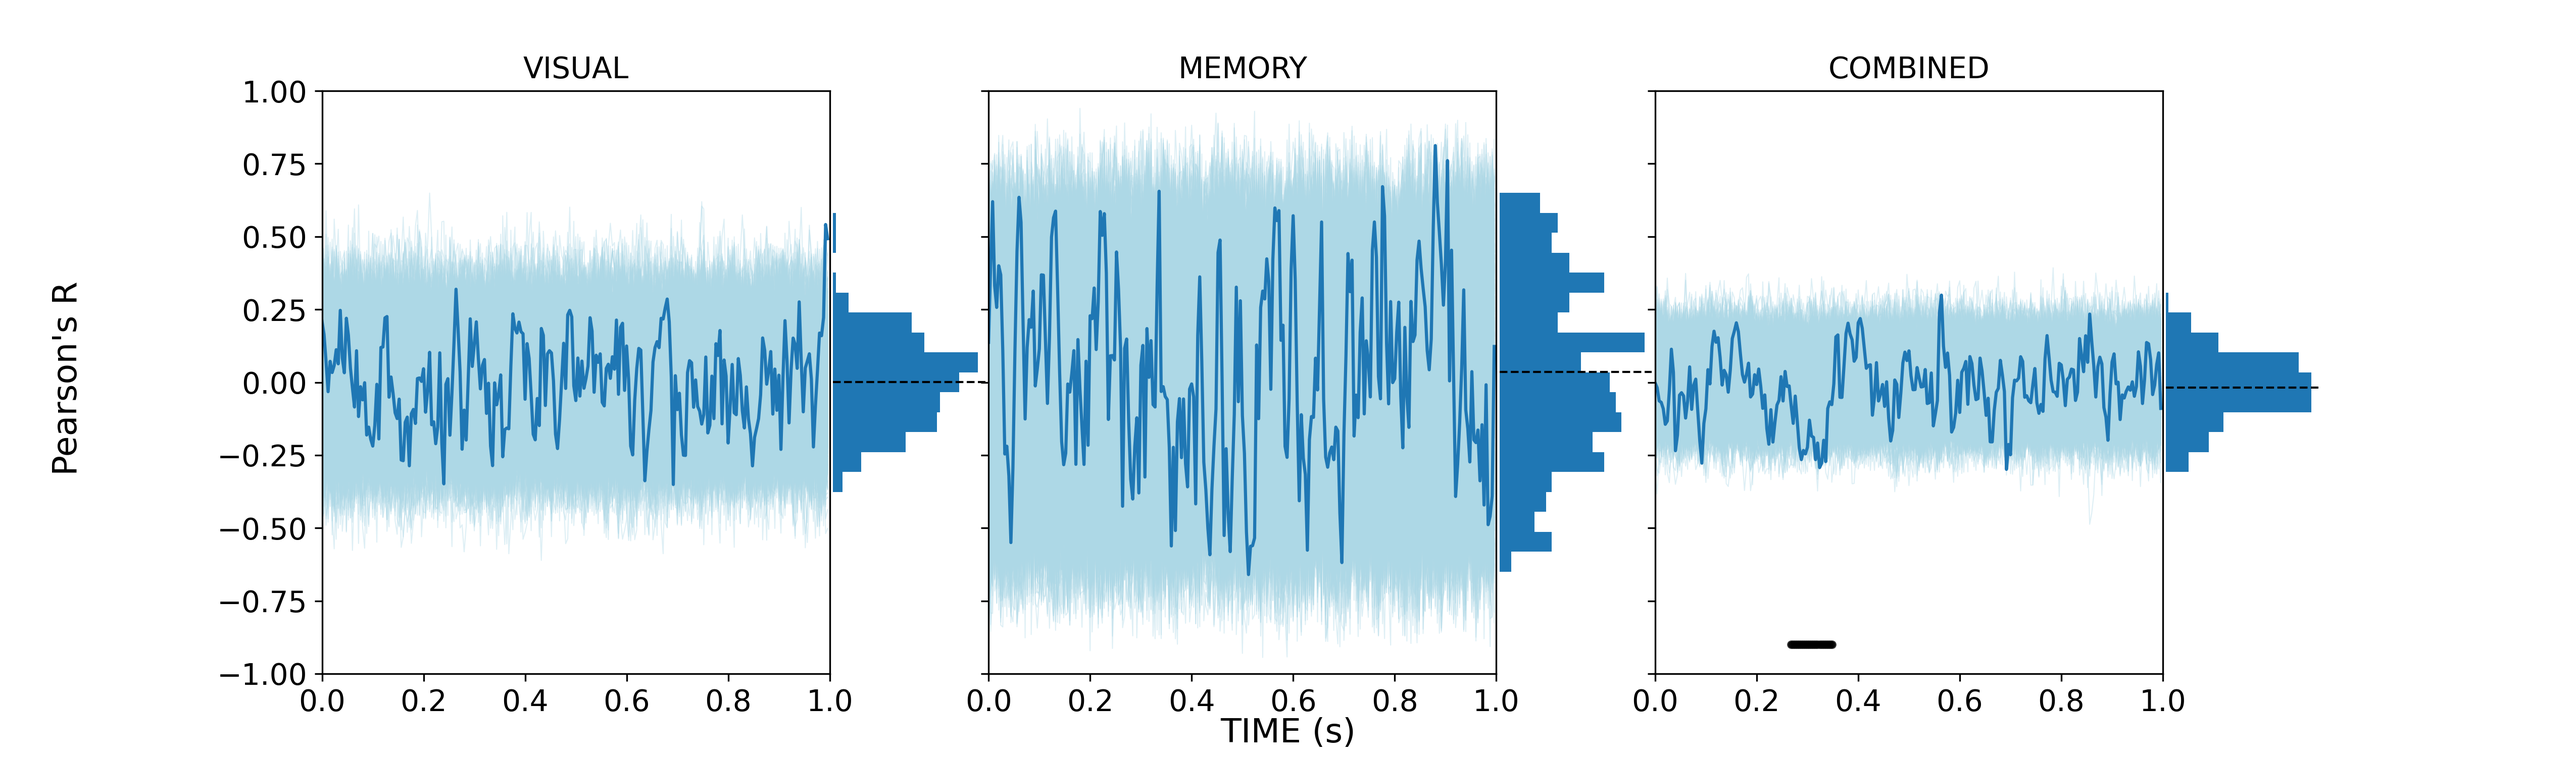
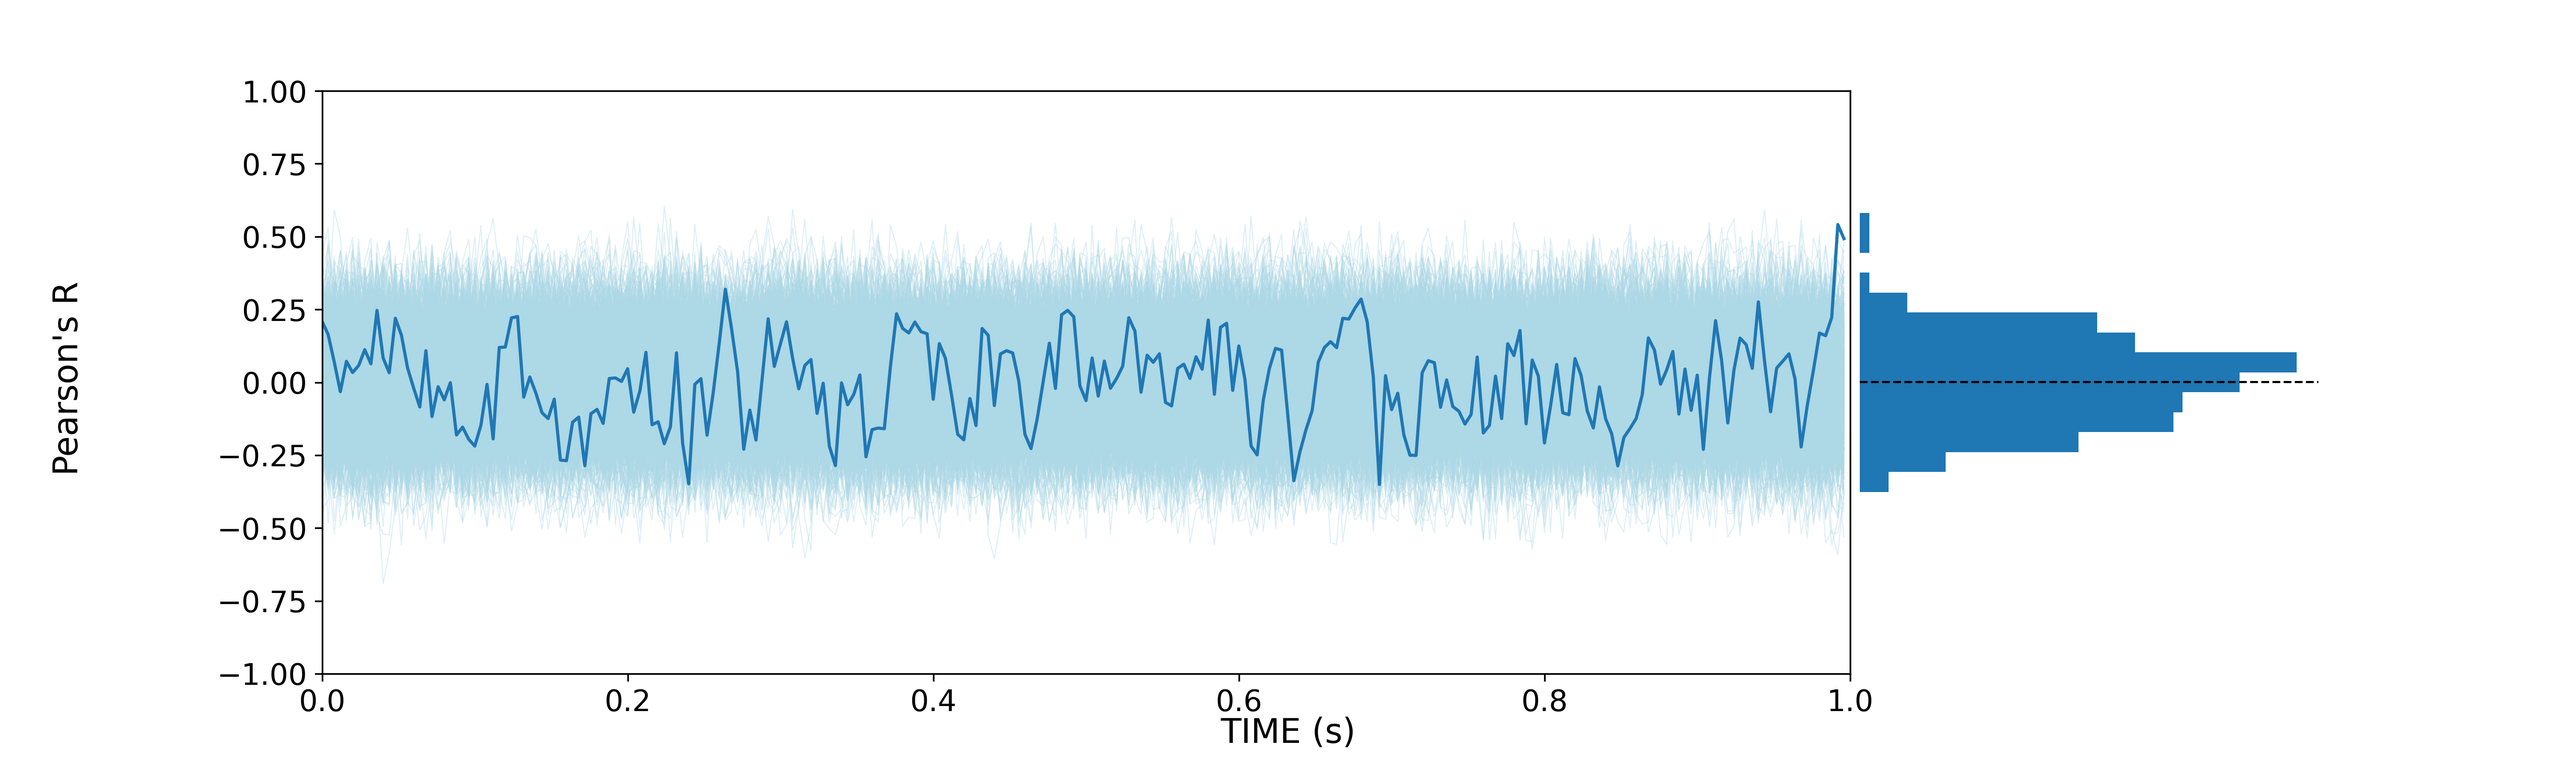
update dist_acc_corr

diff --git a/decoding/cross_decoding/dist_acc_corr.py b/decoding/cross_decoding/dist_acc_corr.py
@@ -154,11 +154,33 @@ def cluster_permutation_test_mne(X, y, n_perm, correlation=pearsonr):
         threshold=0.05)
     
     return corrs, permutations_corr, clusters, cluster_p_values
-    
-def plot_corr_hist_cond(acc, save_path = None, corr_color="C0", perm_color="lightblue", alpha=0.05, cluster=False, n_perm=1000, correlation=pointbiserialr):
 
-    # prep x and y
-    dist = get_distance_matrix([0, 0, 0, 0, 0, 0, 0, 1, 1, 1, 1])
+
+
+def plot_corr_hist(acc, save_path = None, corr_color="C0", perm_color="lightblue", alpha=0.05, cluster=False, n_perm=1000, correlation=pearsonr, distance = "days"):
+
+    # convert to datetime
+    dates = to_datetime(['08-10-2020', '09-10-2020', '15-10-2020', '16-10-2020', '02-03-2021', '16-03-2021', '18-03-2021'], format='%d-%m-%Y')
+       
+    # set up figure
+    gs_kw = dict(width_ratios=[1, 0.3], height_ratios=[1], wspace=0.01, hspace=0.3)
+    fig, axes = plt.subplots(1, 2, figsize=(17, 5), dpi=300, gridspec_kw=gs_kw, sharey=True)
+
+    bin_range = (-0.65, 0.65)
+
+    bins = np.linspace(bin_range[0], bin_range[1], 20)
+
+    if distance == "days":
+        days = dates.copy()
+        dist = get_distance_matrix(days)
+        
+    elif distance == "session":
+        sessions = np.arange(7)
+        dist = get_distance_matrix(sessions)
+
+
+    ax_hist = axes[1]
+    ax_corr = axes[0]
 
     # get x and y
     X, y = prep_x_y(acc, dist)
@@ -168,7 +190,7 @@ def plot_corr_hist_cond(acc, save_path = None, corr_color="C0", perm_color="ligh
         corr, all_perm, pvals = permutation_test(X, y, n_perm)
     else:
         corr, all_perm, clusters, pvals_tmp = cluster_permutation_test_mne(X, y, n_perm, correlation=correlation)
-        
+                
         # reshape corr
         corr = corr.reshape(-1)
 
@@ -180,136 +202,30 @@ def plot_corr_hist_cond(acc, save_path = None, corr_color="C0", perm_color="ligh
             sig_timepoints = np.concatenate([clusters[i][0] for i in sig_clusters_idx])
         except:
             sig_timepoints = []
-    
+
+        print(sig_timepoints)
+            
         # get pvals
         pvals = np.ones(X.shape[1])
 
         # set pvals of significant time points to 0
         pvals[sig_timepoints] = 0
-
-    print(sig_timepoints)
-
-
-    # set up figure
-    gs_kw = dict(width_ratios=[1, 0.4], height_ratios=[1], wspace=0.01, hspace=0.3)
-    fig, ax = plt.subplots(1, 2, figsize=(10, 6), dpi=300, gridspec_kw=gs_kw)
-
-    bin_range = (-0.5, 0.5)
-    bins = np.linspace(bin_range[0], bin_range[1], 20)
-
-    # plot permutations with alpha according
+            
     for perm in all_perm:
-        ax[0].plot(perm, color=perm_color, linewidth=0.5, alpha=0.05)
+        ax_corr.plot(perm, color=perm_color, linewidth=0.5, alpha=0.4)
 
-    plot_corr(ax[0], corr, pvals, alpha = alpha, color=corr_color)
-    
+    # plot correlation
+    plot_corr(ax_corr, corr, pvals, alpha = alpha, color=corr_color, y_lim=(-1, 1))
+
     # get y limits
-    y_lim = ax[0].get_ylim()
+    y_lim = ax_corr.get_ylim()
 
     # plot histogram of correlations
-    plot_hist_of_corr(ax[1], corr, bins, color=corr_color, y_lim=y_lim)
-
-
-    # add y label
-    ax[0].set_ylabel("Point biserial correlation", fontsize=16)
-
-    # add x label
-    ax[0].set_xlabel("TIME (s)", fontsize=16)
-
-
-    if save_path is not None:
-        plt.savefig(save_path)
-
-
-def plot_corr_hist(acc, save_path = None, corr_color="C0", perm_color="lightblue", alpha=0.05, cluster=False, n_perm=1000, correlation=pearsonr, distance = "days"):
-    # only memory
-    mem_indices = [7, 8, 9, 10]
-    mem_acc = acc[mem_indices, :, :, :][:, mem_indices, :, :]
-
-    # only visual
-    vis_indices = [0, 1, 2, 3, 4, 5, 6]
-    vis_acc = acc[vis_indices, :, :, :][:, vis_indices, :, :]
-
-    combined_indices = [0, 1, 2, 3, 8, 9, 10, 4, 5, 6, 7]
-    combined_acc = acc.copy()
-
-
-    # convert to datetime
-    dates = to_datetime(['08-10-2020', '09-10-2020', '15-10-2020', '16-10-2020', '02-03-2021', '16-03-2021', '18-03-2021', '22-10-2020', '29-10-2020', '12-11-2020', '13-11-2020'], format='%d-%m-%Y')
-    order = np.array([0, 1, 2, 3, 8, 9, 10, 4, 5, 6, 7])
-       
-    # set up figure
-    gs_kw = dict(width_ratios=[1, 0.3, 1, 0.3, 1, 0.3], height_ratios=[1], wspace=0.01, hspace=0.3)
-    fig, axes = plt.subplots(1, 6, figsize=(17, 5), dpi=300, gridspec_kw=gs_kw, sharey=True)
-
-    bin_range = (-0.65, 0.65)
-
-    bins = np.linspace(bin_range[0], bin_range[1], 20)
-
-    for i, (tmp_acc, inds) in enumerate(zip([vis_acc, mem_acc, combined_acc], [vis_indices, mem_indices, combined_indices])):
-
-        if distance == "days":
-            tmp_days = dates.copy()
-            dist = get_distance_matrix(tmp_days[inds])
-        
-        elif distance == "session":
-            tmp_session = order.copy()
-            dist = get_distance_matrix(tmp_session[inds])
-
-
-        ax_hist = axes[i*2+1]
-        ax_corr = axes[i*2]
-
-        # get x and y
-        X, y = prep_x_y(tmp_acc, dist)
-
-        # permutation test to see if correlation is significant
-        if not cluster:
-            corr, all_perm, pvals = permutation_test(X, y, n_perm)
-        else:
-            corr, all_perm, clusters, pvals_tmp = cluster_permutation_test_mne(X, y, n_perm, correlation=correlation)
-                
-            # reshape corr
-            corr = corr.reshape(-1)
-
-            # get indices of significant clusters
-            sig_clusters_idx = np.where(pvals_tmp < alpha)[0]
-
-            # get indices of significant time points
-            try: 
-                sig_timepoints = np.concatenate([clusters[i][0] for i in sig_clusters_idx])
-            except:
-                sig_timepoints = []
-
-            print(sig_timepoints)
-            
-            # get pvals
-            pvals = np.ones(X.shape[1])
-
-            # set pvals of significant time points to 0
-            pvals[sig_timepoints] = 0
-            
-        for perm in all_perm:
-            ax_corr.plot(perm, color=perm_color, linewidth=0.5, alpha=0.4)
-
-        # plot correlation
-        plot_corr(ax_corr, corr, pvals, alpha = alpha, color=corr_color, y_lim=(-1, 1))
-
-        # get y limits
-        y_lim = ax_corr.get_ylim()
-
-        # plot histogram of correlations
-        plot_hist_of_corr(ax_hist, corr, bins, color=corr_color, y_lim=y_lim)
+    plot_hist_of_corr(ax_hist, corr, bins, color=corr_color, y_lim=y_lim)
 
 
     fig.supxlabel("TIME (s)", fontsize=16)
     fig.supylabel("Pearson's R", fontsize=16)
-
-    
-  
-    axes[0].set_title("Visual".upper())
-    axes[2].set_title("Memory".upper())
-    axes[4].set_title("Combined".upper())
 
 
     if save_path is not None:
@@ -327,25 +243,17 @@ if __name__ == "__main__":
     alpha = 0.05
 
     distance = "days"
-    #plot_corr_hist(
-    #    acc = acc, 
-    #    distance=distance,
-    #    save_path = plot_path / f"corr_acc_dist_{distance}.png",
-    #    alpha = alpha,
-    #    cluster=True)
+    plot_corr_hist(
+        acc = acc, 
+        distance=distance,
+        save_path = plot_path / f"corr_acc_dist_{distance}.png",
+        alpha = alpha,
+        cluster=True)
     
     distance = "session"
-    #plot_corr_hist(
-    #    acc = acc, 
-    #    distance=distance,
-    #    save_path = plot_path / f"corr_acc_dist_{distance}.png",
-    #    alpha = alpha,
-    #    cluster=True)
-
-    plot_corr_hist_cond(
-        acc, 
-        save_path=plot_path / "corr_acc_dist_cond.png",
+    plot_corr_hist(
+        acc = acc, 
+        distance=distance,
+        save_path = plot_path / f"corr_acc_dist_{distance}.png",
         alpha = alpha,
-        cluster=True,
-        correlation=pointbiserialr
-        )
+        cluster=True)
